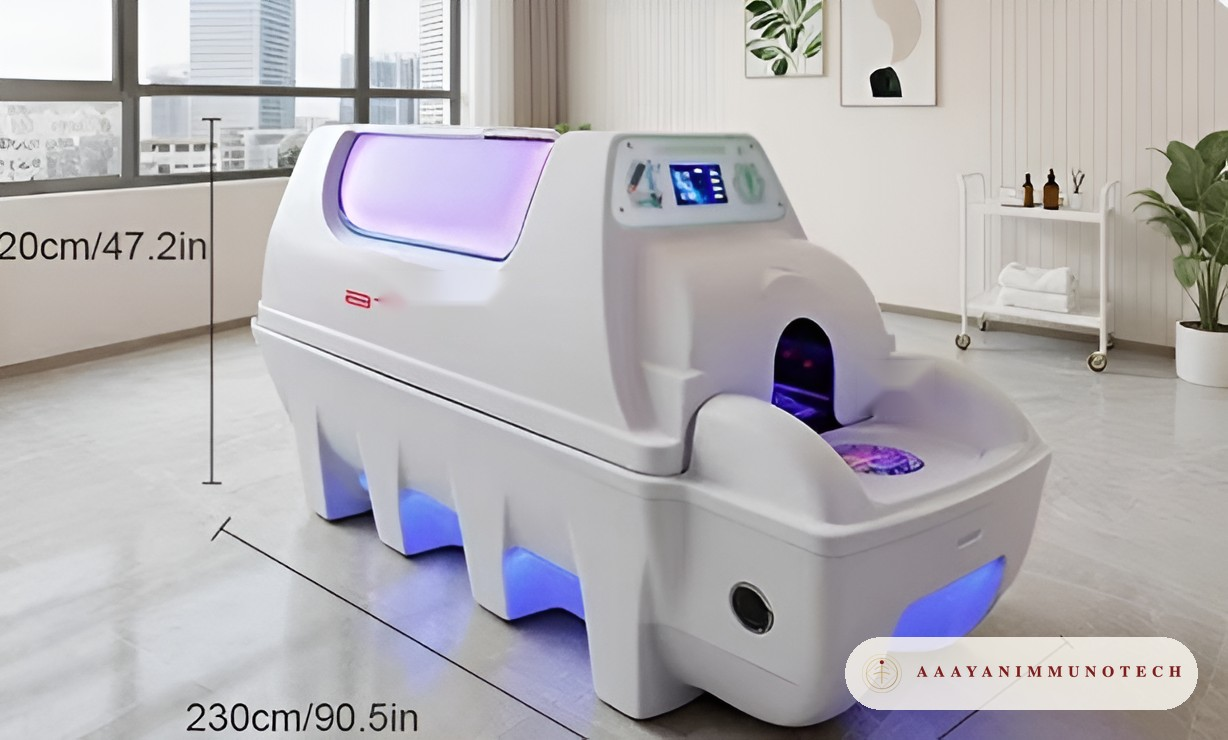
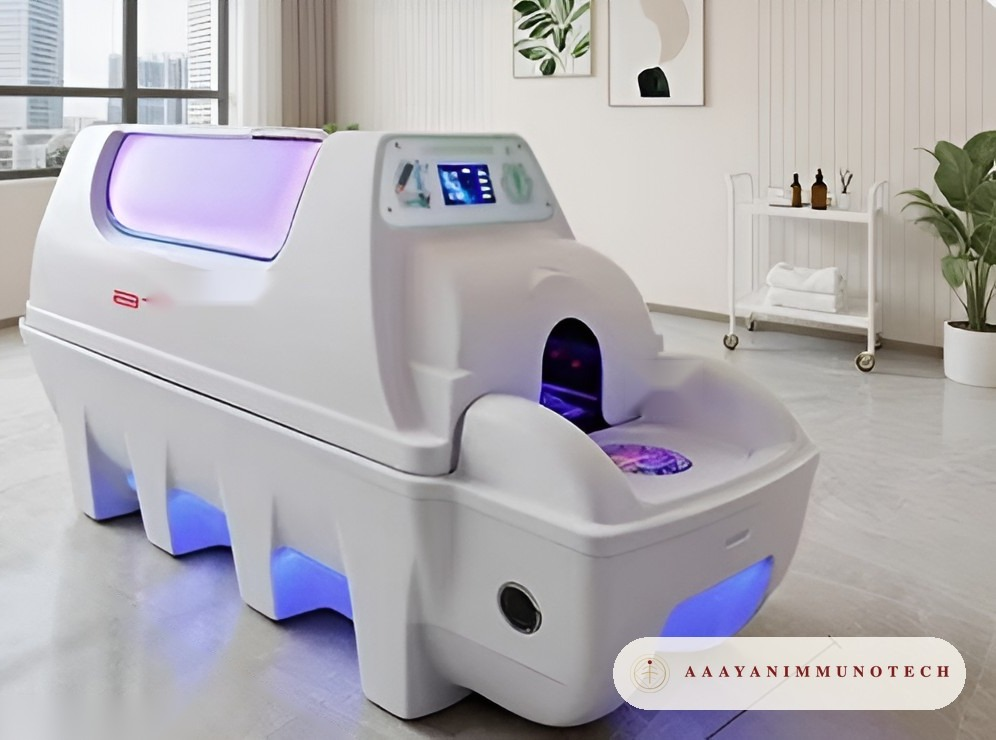
Fix the Hydrogen Bath and PEMF photos and stop cards cropping the mark
Hydrogen Bath showed the same black generator as Hydrogen Inhalation; it now
uses the bath photo. The PEMF photo had supplier dimension lines painted out.
Product cards show the whole photo on white, and Shortlist sits top-right so
it no longer covers the AAAYANIMMUNOTECH mark.

diff --git a/client/src/components/SiteChrome.tsx b/client/src/components/SiteChrome.tsx
@@ -154,16 +154,16 @@ export function PageShell({ eyebrow, title, intro, breadcrumb, headerSlot, after
 export function ProductCard({ product, index, selected = false, onToggle }: { product: Product; index: number; selected?: boolean; onToggle?: () => void }) {
   const altImage = product.images[1];
   return <article className="group">
-    <div className="relative aspect-[1.12] overflow-hidden rounded-[28px] border border-[#4E141D]/10 bg-[#ebe7de] p-5 shadow-[0_16px_45px_rgba(46,10,16,0.08)] transition duration-500 group-hover:-translate-y-1 group-hover:shadow-[0_22px_55px_rgba(46,10,16,0.13)]">
+    <div className="relative aspect-[1.12] overflow-hidden rounded-[28px] border border-[#4E141D]/10 bg-white p-5 shadow-[0_16px_45px_rgba(46,10,16,0.08)] transition duration-500 group-hover:-translate-y-1 group-hover:shadow-[0_22px_55px_rgba(46,10,16,0.13)]">
       <div className="pointer-events-none absolute left-4 top-4 h-16 w-16 rounded-tl-2xl border-l border-t border-[#C5A059]/35" />
       <div className="pointer-events-none absolute bottom-4 right-4 h-16 w-16 rounded-br-2xl border-b border-r border-[#C5A059]/35" />
       <Link href={`/products/${product.id}`} aria-label={`View ${product.name}`} className="absolute inset-0 flex items-center justify-center">
-        <img src={product.images[0] ?? product.image} alt={`${product.name} — ${product.type}`} loading="lazy" className={`h-full w-full object-cover transition duration-700 group-hover:scale-[1.035] ${altImage ? "group-hover:opacity-0" : ""}`} />
-        {altImage && <img src={altImage} alt={`${product.name} — alternate view`} loading="lazy" className="absolute inset-0 h-full w-full object-cover opacity-0 transition duration-700 group-hover:scale-[1.035] group-hover:opacity-100" />}
+        <img src={product.images[0] ?? product.image} alt={`${product.name} — ${product.type}`} loading="lazy" className={`h-full w-full object-contain transition duration-700 group-hover:scale-[1.035] ${altImage ? "group-hover:opacity-0" : ""}`} />
+        {altImage && <img src={altImage} alt={`${product.name} — alternate view`} loading="lazy" className="absolute inset-0 h-full w-full object-contain opacity-0 transition duration-700 group-hover:scale-[1.035] group-hover:opacity-100" />}
       </Link>
-      <div className="pointer-events-none absolute inset-x-5 top-5 flex items-start justify-between gap-2"><span className="rounded-full bg-[#f4f1ea]/90 px-2.5 py-1 text-[9px] uppercase tracking-[0.15em] text-[#514b42] shadow-sm">{pad(index)}</span>{product.badge && <span className="rounded-full bg-[#C5A059] px-2.5 py-1 text-[9px] uppercase tracking-[0.14em] text-[#4E141D] shadow-sm">{product.badge}</span>}</div>
+      <div className="pointer-events-none absolute inset-x-5 top-5 flex items-start justify-between gap-2"><div className="flex gap-2"><span className="rounded-full bg-[#f4f1ea]/90 px-2.5 py-1 text-[9px] uppercase tracking-[0.15em] text-[#514b42] shadow-sm">{pad(index)}</span>{product.badge && <span className="rounded-full bg-[#C5A059] px-2.5 py-1 text-[9px] uppercase tracking-[0.14em] text-[#4E141D] shadow-sm">{product.badge}</span>}</div></div>
       {altImage && <div className="pointer-events-none absolute bottom-5 left-5 rounded-full bg-[#4E141D]/75 px-3 py-1.5 text-[8px] uppercase tracking-[0.14em] text-white/90 opacity-0 transition group-hover:opacity-100">View alternate image</div>}
-      {onToggle && <button onClick={onToggle} aria-label={`${selected ? "Remove" : "Add"} ${product.name} ${selected ? "from" : "to"} shortlist`} className={`absolute bottom-4 right-4 flex items-center gap-2 rounded-full px-3 py-2 text-[9px] uppercase tracking-[0.12em] transition ${selected ? "bg-[#C5A059] text-[#4E141D]" : "bg-[#4E141D]/75 text-white hover:bg-[#C5A059] hover:text-[#4E141D]"}`}>{selected ? <Check size={13} /> : <Plus size={13} />} {selected ? "Shortlisted" : "Shortlist"}</button>}
+      {onToggle && <button onClick={onToggle} aria-label={`${selected ? "Remove" : "Add"} ${product.name} ${selected ? "from" : "to"} shortlist`} className={`absolute right-4 top-4 flex items-center gap-2 rounded-full px-3 py-2 text-[9px] uppercase tracking-[0.12em] transition ${selected ? "bg-[#C5A059] text-[#4E141D]" : "bg-[#4E141D]/75 text-white hover:bg-[#C5A059] hover:text-[#4E141D]"}`}>{selected ? <Check size={13} /> : <Plus size={13} />} {selected ? "Shortlisted" : "Shortlist"}</button>}
     </div>
     <div className="pt-5">
       <div className="flex flex-wrap items-baseline justify-between gap-x-3 gap-y-1 text-[9px] uppercase tracking-[0.18em]"><span className="text-[#C5A059]">{product.type}</span><span className="text-[#777067]">{product.headline}</span></div>

diff --git a/shared/site.ts b/shared/site.ts
@@ -58,7 +58,7 @@ const range: Entry[] = [
   { id: "infrared-sauna", name: "IR + FIR + Himalayan Salt Sauna Cabin", type: "Infrared sauna cabin", guide: "installation-requirements", description: "Infrared and far-infrared sauna cabins with a Himalayan salt option.", photos: ["infrared-sauna.jpg", "infrared-sauna-2.jpg", "sauna-cabin-3", "sauna-cabin-4", "sauna-cabin-6", "sauna-cabin-5", "sauna-cabin-7"], sectors: ["gyms-spas-hotels", "corporate-wellness", "personal-residential"] },
   { id: "nano-vi", name: "Nano VI", type: "Nano VI device", guide: "build-your-centre", description: "Compact tabletop Nano VI unit with a flexible breathing hose.", photos: ["nano-vi"], sectors: ["clinical-medical", "personal-residential"] },
   { id: "hydrogen-inhalation", name: "Hydrogen Inhalation", type: "Hydrogen inhalation system", guide: "build-your-centre", description: "Molecular hydrogen generator for inhalation, on castors with a front control panel.", photos: ["hydrogen-generator-1", "hydrogen-generator-2", "hydrogen-generator-3"], sectors: ["clinical-medical", "personal-residential"] },
-  { id: "hydrogen-bath", name: "Hydrogen Bath", type: "Hydrogen bath system", guide: "build-your-centre", description: "Hydrogen-rich water bath system.", photos: ["hydrogen-generator-4", "hydrogen-bath-3", "hydrogen-generator-5", "hydrogen-bath-2"], sectors: ["gyms-spas-hotels", "personal-residential"] },
+  { id: "hydrogen-bath", name: "Hydrogen Bath", type: "Hydrogen bath system", guide: "build-your-centre", description: "Hydrogen-rich water bath system.", photos: ["hydrogen-bath-3"], sectors: ["gyms-spas-hotels", "personal-residential"] },
   { id: "hypoxic-oxygen-inhalation", name: "Hypoxic Oxygen Inhalation", type: "Hypoxic air system", guide: "build-your-centre", description: "Intermittent hypoxic–hyperoxic training: the user breathes alternating low-oxygen (8–15%) and oxygen-rich (up to 36%) air while blood oxygen is monitored.", photos: ["hypoxic-oxygen-inhalation"], sectors: ["sports-performance", "clinical-medical"] },
   { id: "pemf", name: "PEMF Bed", type: "PEMF bed", guide: "build-your-centre", description: "Full-body PEMF bed.", photos: ["pemf.jpg", "pemf-2"], sectors: ["sports-performance", "clinical-medical", "gyms-spas-hotels"] },
   { id: "body-mass-analyser", name: "Body Mass Analyser", type: "Body composition analyser", guide: "build-your-centre", description: "Body composition and body mass analyser.", photos: ["body-mass-analyser"], sectors: ["clinical-medical", "gyms-spas-hotels", "sports-performance"] },
